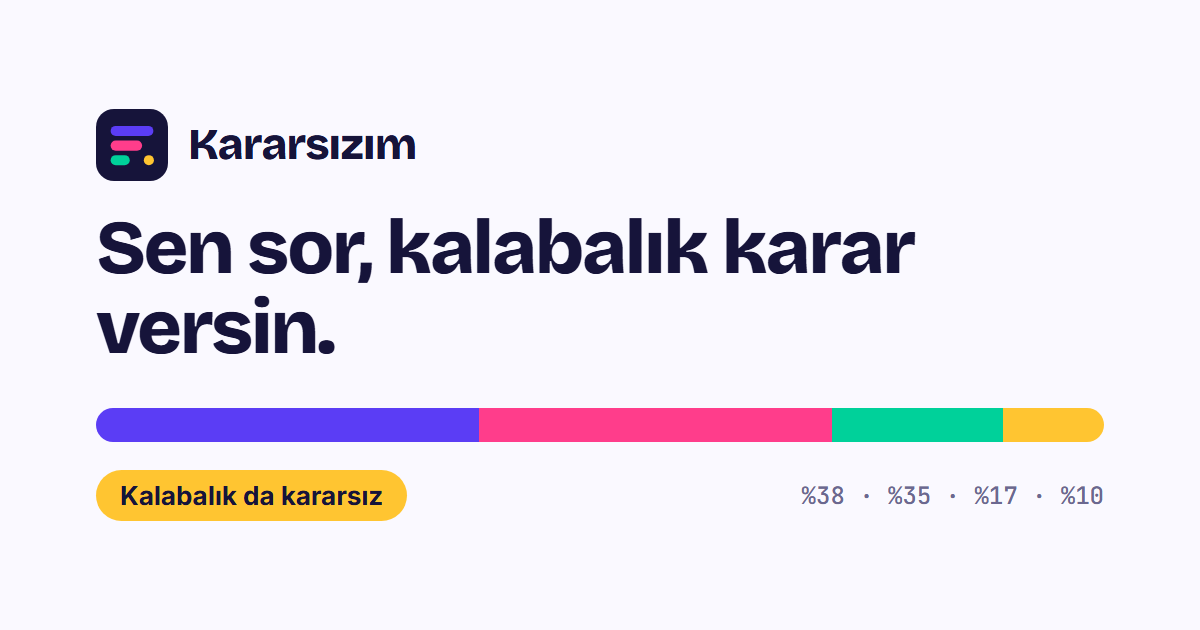
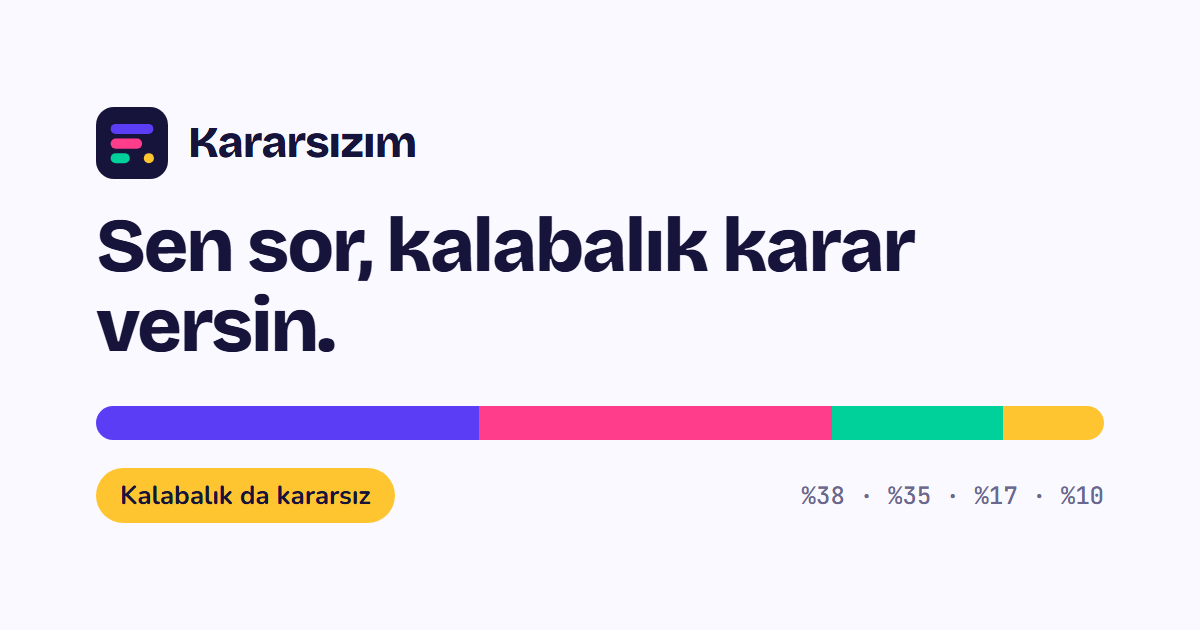
style: gövde fontu Inter yerine Nunito
Okunması zor bulunan Inter yerine gövde metni, butonlar ve formlar
Nunito ile yazılır; başlıklar Bricolage Grotesque olarak kalır.
Karar şartnamenin 15. bölümüne eklendi, og.png yeniden üretildi.

diff --git a/templates/base.html b/templates/base.html
@@ -24,7 +24,7 @@
 
   <link rel="preconnect" href="https://fonts.googleapis.com">
   <link rel="preconnect" href="https://fonts.gstatic.com" crossorigin>
-  <link rel="stylesheet" href="https://fonts.googleapis.com/css2?family=Bricolage+Grotesque:wght@700;800&family=Inter:wght@400;500;600;700&family=JetBrains+Mono:wght@500&subset=latin,latin-ext&display=swap">
+  <link rel="stylesheet" href="https://fonts.googleapis.com/css2?family=Bricolage+Grotesque:wght@700;800&family=Nunito:wght@400;500;600;700;800&family=JetBrains+Mono:wght@500&subset=latin,latin-ext&display=swap">
 
   <link rel="stylesheet" href="{% static 'css/tokens.css' %}">
   <link rel="stylesheet" href="{% static 'css/base.css' %}">

diff --git a/static/css/tokens.css b/static/css/tokens.css
@@ -39,8 +39,8 @@
   --sp-5: 24px; --sp-6: 32px; --sp-7: 48px; --sp-8: 64px;
 
   /* tipografi */
-  --font-display: "Bricolage Grotesque", "Inter", system-ui, sans-serif;
-  --font-body:    "Inter", system-ui, -apple-system, "Segoe UI", sans-serif;
+  --font-display: "Bricolage Grotesque", "Nunito", system-ui, sans-serif;
+  --font-body:    "Nunito", system-ui, -apple-system, "Segoe UI", sans-serif;
   --font-mono:    "JetBrains Mono", ui-monospace, "Cascadia Mono", monospace;
 
   /* tip ölçeği */

diff --git a/docs/PROJECT.md b/docs/PROJECT.md
@@ -661,3 +661,4 @@ Bu bölüm, yukarıdaki metinle çelişen veya belirsiz kalan noktalarda **geçe
 7. **Data API kilidi (Bölüm 11.1'deki "RLS kullanılmaz" kuralının istisnası):** Supabase `public` şemasını Data API (PostgREST) üzerinden `anon`/`authenticated` rollerine açar. Bu yüzden tüm tablolarda **politikasız** RLS açılır ve bu rollerin yetkileri kaldırılır. RLS uygulama yetkilendirmesi için kullanılmaz; Django tablo sahibi `postgres` rolüyle bağlandığı için etkilenmez. Her `migrate`'ten sonra çalıştırılır:
    `DATABASE_URL=$DATABASE_URL_DIRECT python manage.py lock_public_tables`
    Ek olarak Supabase dashboard'unda Data API kapatılır (Project Settings → Data API).
+8. **Gövde fontu (Bölüm 7 Tipografi'nin yerine):** Gövde metni, butonlar ve formlar `Inter` yerine **`Nunito`** (400/500/600/700/800) ile yazılır; Inter okunması zor bulundu. Başlıklar `Bricolage Grotesque`, sayılar `JetBrains Mono` olarak kalır.
